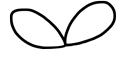
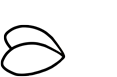
Bee: Updated graphics

Changed region(s): [[0.0, 0.0, 1.0, 1.0]]

diff --git a/src/js/states/subgames/BeeFlightGame.js b/src/js/states/subgames/BeeFlightGame.js
@@ -378,7 +378,7 @@ function BeeFlightBee (x, y) {
 	this.body.anchor.set(0.5);
 	this.mouth = this.create(50, 35, 'bee', 'mouth_happy');
 	this.mouth.anchor.set(0.5);
-	this.wings = this.create(-25, -43, 'bee', 'wings0');
+	this.wings = this.create(-25, -43, 'bee', 'wings1');
 	this.wings.anchor.set(0.5);
 
 	this.talk = TweenMax.to(this.mouth, 0.2, {
@@ -388,6 +388,7 @@ function BeeFlightBee (x, y) {
 	this._flap = TweenMax.to(this.wings, 0.1, {
 		frame: this.wings.frame+1, roundProps: 'frame', ease: Power0.easeInOut, repeat: -1, yoyo: true, paused: true
 	});
+	this.wings.frameName = 'wings0';
 }
 
 BeeFlightBee.prototype.flap = function (on) {
@@ -397,5 +398,6 @@ BeeFlightBee.prototype.flap = function (on) {
 		}
 	} else {
 		this._flap.pause(0);
+		this.wings.frameName = 'wings0';
 	}
 };
